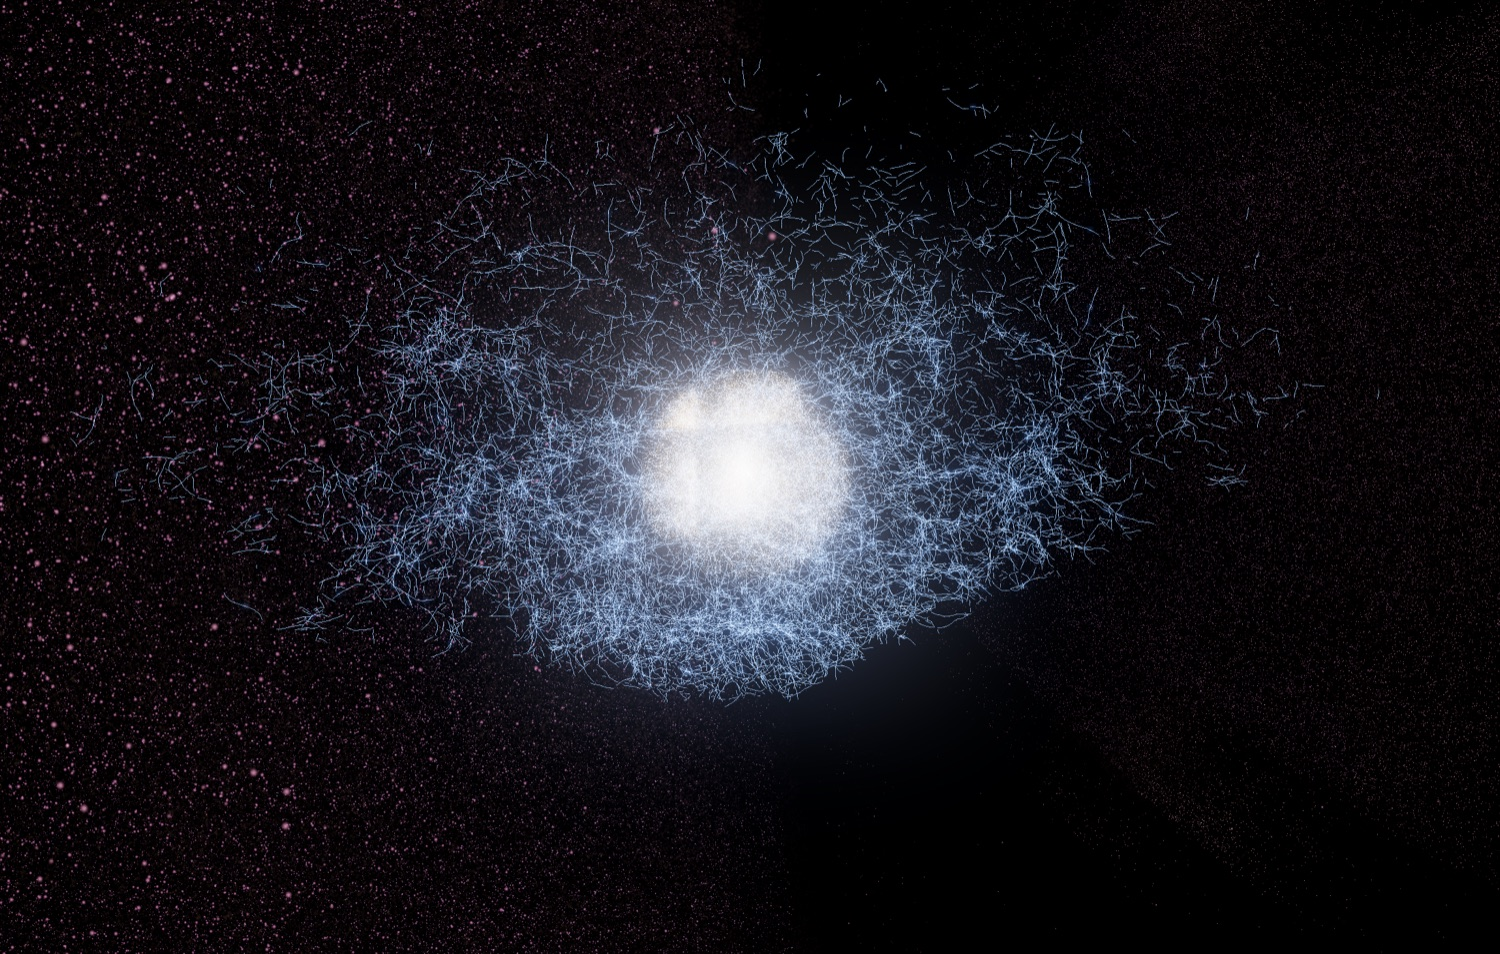
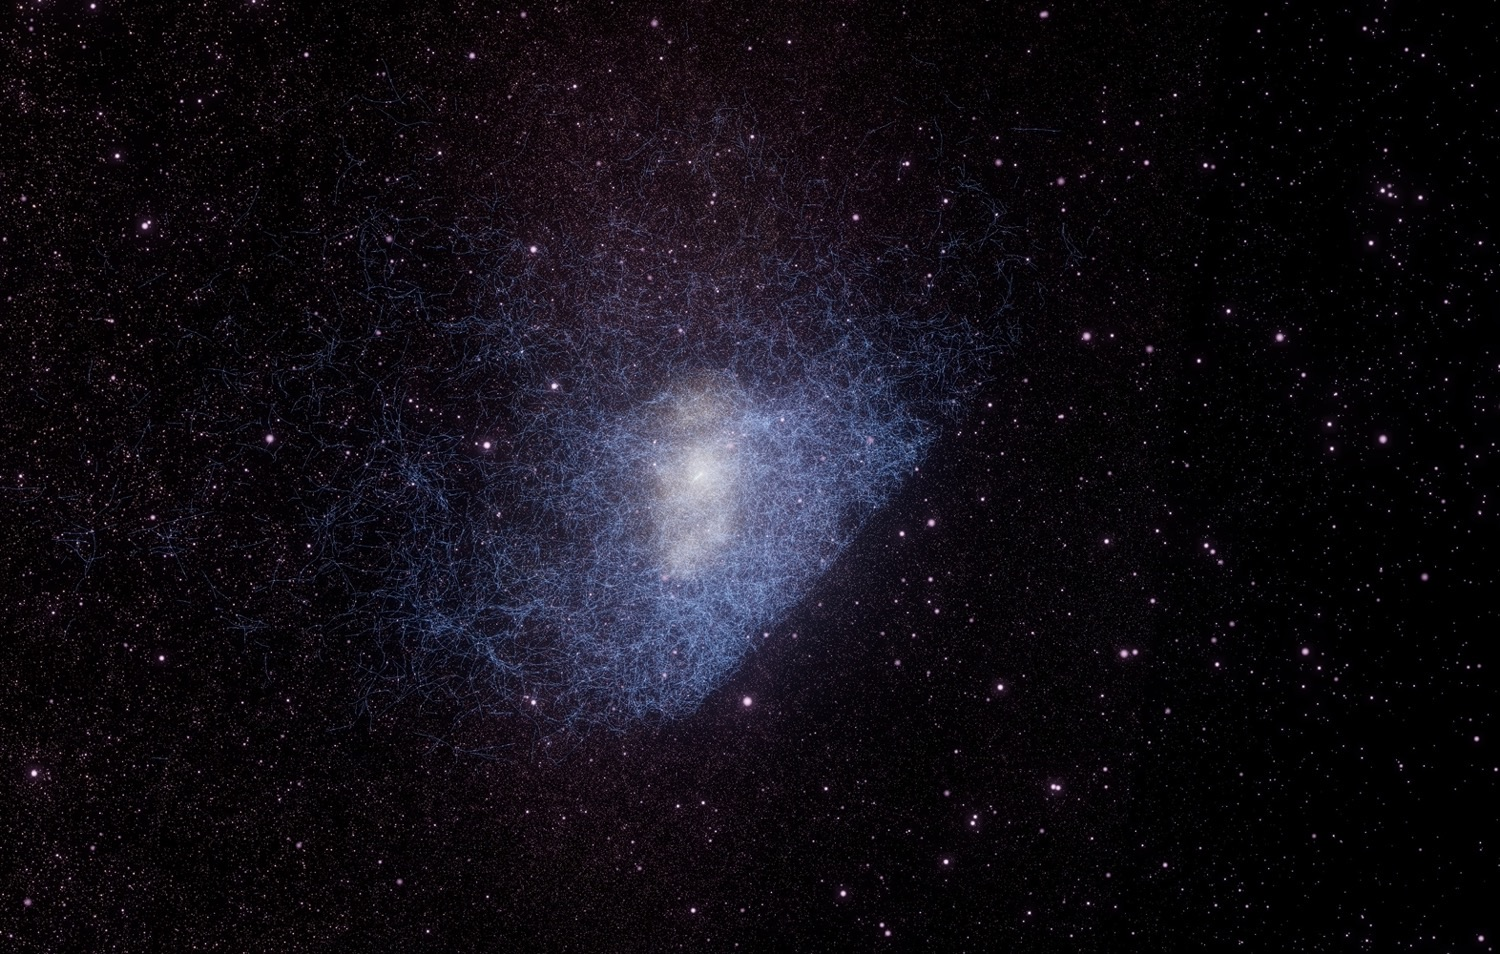
Cosmos: host the 6.79M star tier off-repo and turn the upgrade on by default
The full star octree is 52 MB and never changes. Committing it here would put it
in this repo's history permanently, so it lives in siddeepak2023/cosmos-data,
which publishes to Pages under the same account. That makes /cosmos-data/ the
same origin as the viewer on both the github.io host and the custom domain, so
one root-relative path is correct on each without hardcoding a host. GitHub
release assets were the obvious first choice and are unusable: they serve no
access-control-allow-origin header, so the fetch is blocked in the browser.

With somewhere to fetch from, the ?full=1 gate comes off. Its other reason is
also gone: the uniform cut of that tree still lands on the same 397,349 points,
but they no longer read as 64 coarse blocks, because exposure is compensated by
each node's true subtree ratio instead of a capped pow(lod,1.5). The
miscompensation was the cube, not the coarseness. Verified at d=573.

Recaptured the project card from the full tier at 3200x2000, pulled back to
d=568 so the cosmic web and the glowing core both fit the frame - the previous
card was cropped so tight it read as noise. The first capture had a hard
vertical seam down the middle from reading a torn drawing buffer after a manual
tick sequence; rendering once synchronously immediately before toDataURL fixes
it. The seam was in the readback only, never in the viewer.

diff --git a/cosmos/index.html b/cosmos/index.html
@@ -1205,15 +1205,17 @@ async function boot(){
   }
   document.getElementById('total').textContent=fmt(totalN);
   // Kicked off after the first frame is interactive, never before it.
-  // The 6.79M tier is opt-in via ?full=1, and off by default on purpose. Within a
-  // 1,200,000 frame budget a uniform cut of that tree reaches only levels 0..2 -
-  // 397,349 points, 5.9% of the layer, drawn as 64 coarse blocks, which is the cube.
-  // The 1.2M tier gets 300,725 points at the same cut, 25% of its layer, and reads as
-  // a smooth sphere. It is also the only tier production serves (stars_o.bin is not
-  // hosted), so leaving the upgrade on made a local machine disagree with every
-  // visitor AND made the headline flicker between 4,616,289 and 10,202,358 depending
-  // on whether the fetch won its race on that reload.
-  if(!LITE && new URLSearchParams(location.search).get('full')==='1') upgradeStars(totalN - counts.stars);
+  // The 6.79M tier used to be opt-in via ?full=1 for two reasons, and neither holds now.
+  // It was not hosted, so production could not serve it - it is, see STARS_FULL. And a
+  // uniform cut of that tree within the 1,200,000 budget reaches only levels 0..2, which
+  // at the time drew 397,349 points as 64 visible coarse blocks: the cube. The cut still
+  // lands on the same 397,349 points, but they no longer read as blocks, because exposure
+  // is now compensated by each node's TRUE subtree ratio rather than a capped pow(lod,1.5)
+  // - the miscompensation was the cube, not the coarseness. Verified at d=573: a smooth
+  // core, and a denser bright foreground than the 1.2M tier gives.
+  // The headline follows whatever actually loaded, so a reader whose upgrade is gated out
+  // by the memory or link check keeps seeing 4,616,289, which stays true for them.
+  if(!LITE) upgradeStars(totalN - counts.stars);
   // The headline count has to come from what actually loaded, not from a number typed
   // into the markup. On the lite build the star layer is 1.2M rather than 7.4M, and a
   // hardcoded 10,202,358 would be a claim the page did not deliver — which is exactly
@@ -1289,13 +1291,18 @@ document.querySelectorAll('.tour').forEach(b=>{
 //     the 54.5 MB upgrade would take 36s+, so it is skipped and the page keeps saying 4.6M,
 //     which is what it actually drew. Better a true small number than a stalled big one.
 //   * a failed fetch. The lite layer stays; nothing regresses.
-// The 52 MB full-star tier is NOT hosted alongside the site: git keeps every blob
-// forever and GitHub Pages will not serve LFS, so committing it would bloat the repo
-// permanently and put 52 MB on every visitor who qualified for the upgrade. The fetch
-// therefore 404s in production and upgradeStars bails without touching the lite layer,
-// which is why no surface claims the 10.2M figure. To turn it on, host stars_o.bin
-// anywhere with CORS and point this url at it.
-const STARS_FULL={k:'stars',url:'stars_o.bin',size:0.32,norm:70,exp:0.026,coreGlow:true,uniform:true};
+// The 52 MB full-star tier is hosted OUT of the site repo, in siddeepak2023/cosmos-data,
+// because git keeps every blob forever and Pages will not serve LFS — committing it here
+// would bloat this repo's history permanently for a file that changes never. That repo
+// publishes to Pages under the same account, so /cosmos-data/ is the SAME ORIGIN as this
+// page on both the github.io host and the custom domain, and the path stays correct on
+// each without hardcoding either. Pages also sends access-control-allow-origin:* anyway.
+// Release assets were the obvious first choice and are unusable: they send no CORS header.
+// A site-root path would 404 under a local dev server, where the binary sits next to
+// index.html instead — so localhost keeps the relative path.
+const DEV=location.hostname==='localhost'||location.hostname==='127.0.0.1';
+const STARS_FULL={k:'stars',url:DEV?'stars_o.bin':'/cosmos-data/stars_o.bin',
+                  size:0.32,norm:70,exp:0.026,coreGlow:true,uniform:true};
 let liteRateMBs=Infinity;
 async function upgradeStars(otherLayersN){
   // The full layer measured 393 MB of JS heap against 188 MB for lite. On a 4 GB phone
